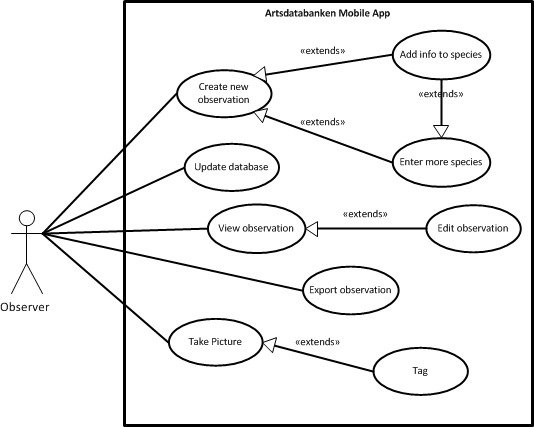
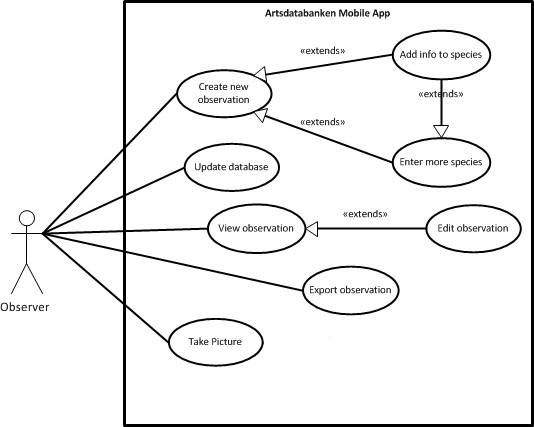
removed tag from use case(s)

diff --git a/doc/project_report/reqspec/usecase.tex b/doc/project_report/reqspec/usecase.tex
@@ -139,8 +139,8 @@ observation process, see section \ref{sec:field-study}.
 	Preconditions&User wants to take a picture to be attached to an observation\newline
 	The device has a camera\\\hline
 	Flow&1. User taps 'Take picture' button.\newline
-	2. User takes picture \\\hline
-	Extensions& 2a. User adds a description to the picture\\\hline
+	2. User takes or selects picture \\\hline
+	Extensions&None\\\hline
 	Postconditions&Picture is stored on the phone with an easily recognizable filename so it can be attached to an observation 	later\\\hline
 	Complexity&Medium\\\hline
 	Priority&Low\\\hline
